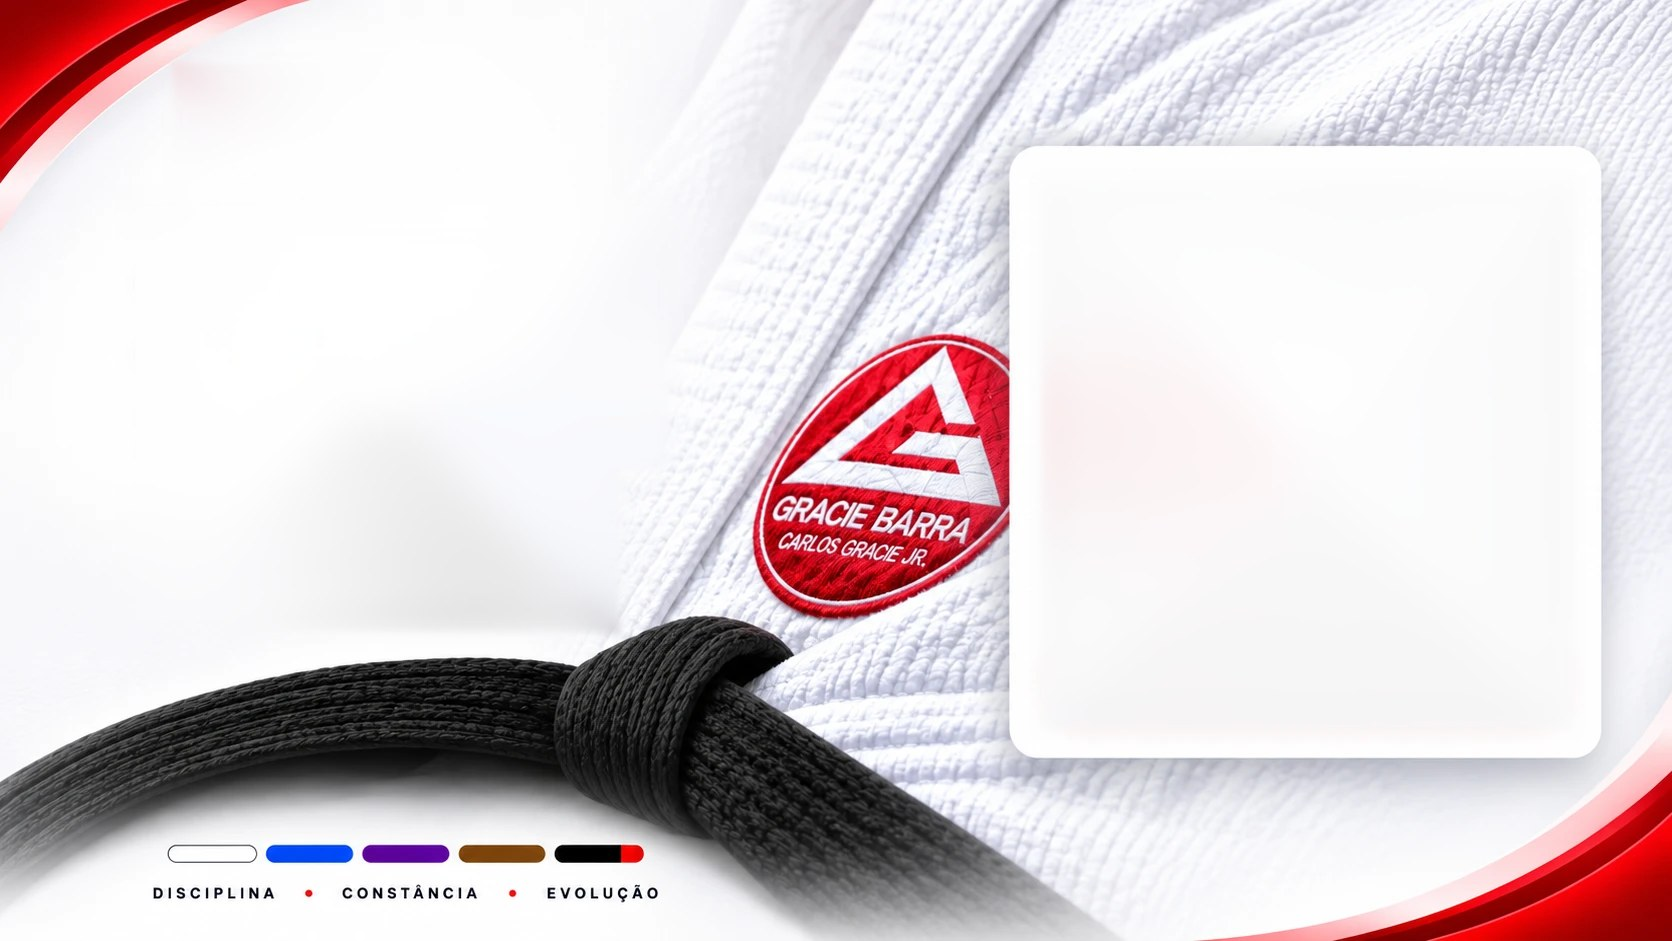
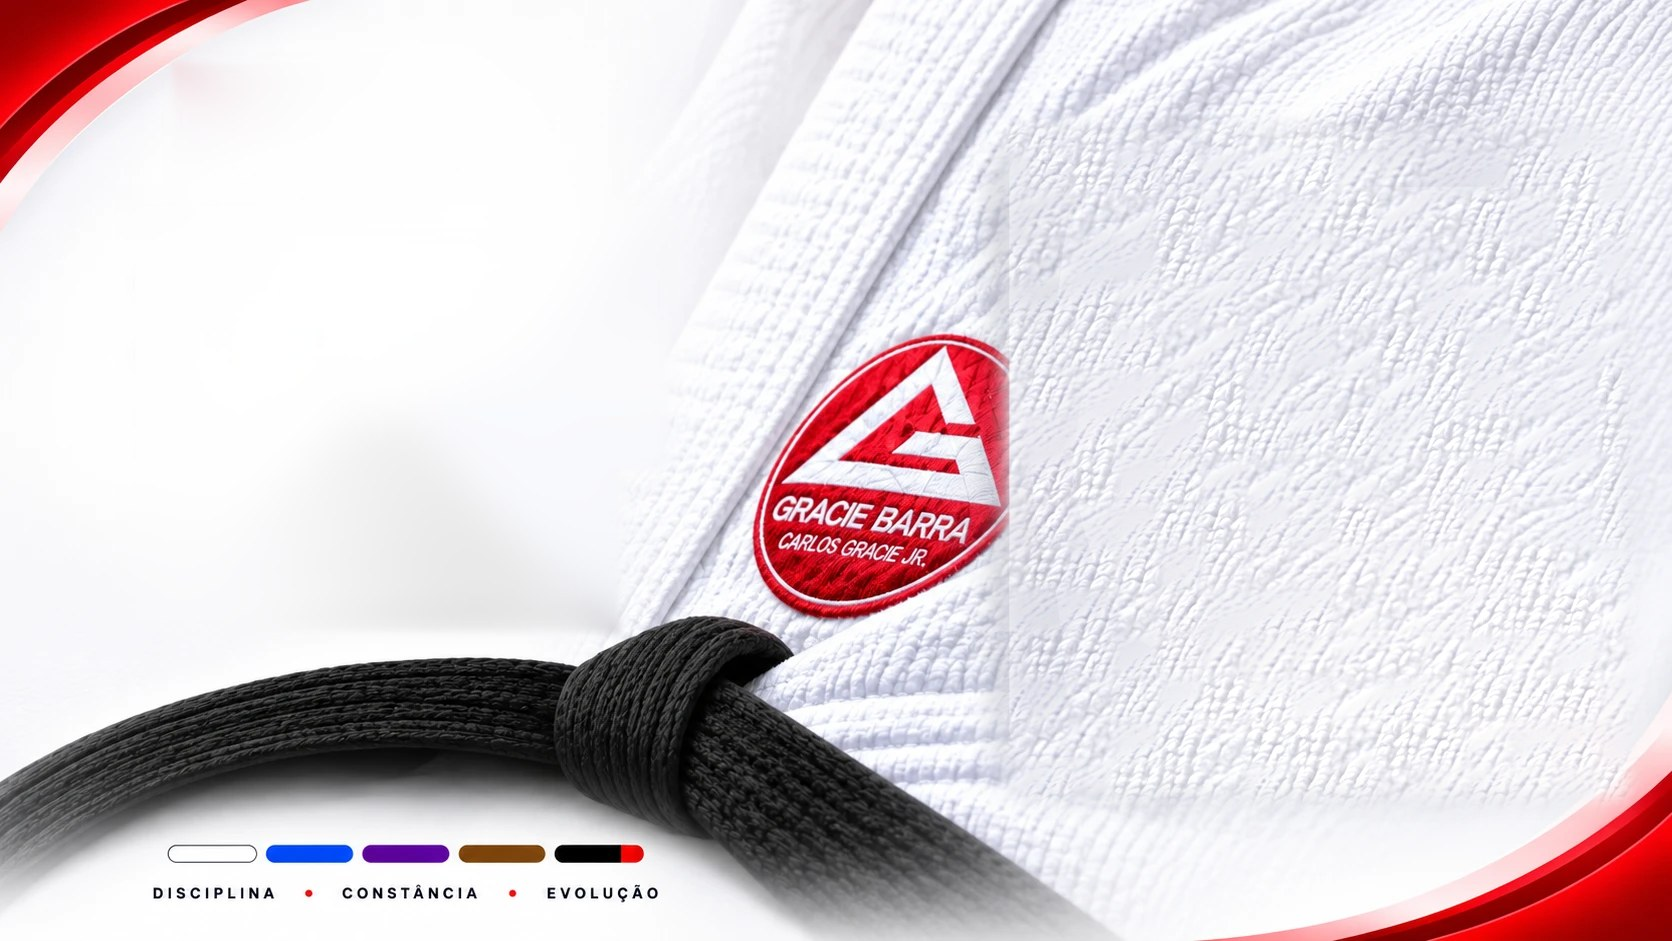
fix: cartão de login do computador menor
O fundo não tem mais o cartão pintado (o lugar dele virou tecido de kimono),
então o cartão de verdade passa a ter ~26% da largura em vez de 36%,
com campos e botão de 42–52px. A borda esquerda segue colada no patch.

Changed region(s): [[0.5909, 0.1233, 0.9641, 0.8629], [0.7775, 0.6472, 0.8086, 0.678]]

diff --git a/css/admin.css b/css/admin.css
@@ -764,23 +764,24 @@ a.stat:hover{border-color:var(--red-borda)}
   .lp-lado-itens li{display:flex;flex-direction:column;align-items:center;text-align:center;font-size:1.1cqw;font-weight:700;line-height:1.2;color:#22252c}
   .lp-lado-itens li>span{width:4.2cqw;height:4.2cqw;border-radius:1.1cqw;background:#fff;display:grid;place-items:center;box-shadow:0 .5cqw 1.4cqw #1b26301a;margin-bottom:.8cqw;color:#e0101b}
   .lp-lado-itens .ic{width:2.1cqw;height:2.1cqw;stroke-width:2.2}
-  /* O cartão cobre o cartão do desenho; o conteúdo ocupa a largura dele (como no desenho), em ~80% da escala, com teto em px */
-  .lp-conteudo{position:absolute;left:60.3%;top:15.45%;width:35.6%;min-height:36.7cqw;padding:2.6cqw 3.05cqw;background:#fff;border-radius:1.7cqw;box-shadow:0 1.4cqw 4cqw #1b263020;
-    display:flex;flex-direction:column;justify-content:center}
-  .lp-desk-cab{display:block;margin-bottom:clamp(20px,2cqw,32px)}
-  .lp-desk-cab .lp-lado-regua{width:clamp(44px,4.2cqw,72px);height:clamp(3px,.24cqw,4px)}
-  .lp-desk-cab h2{margin:clamp(10px,.9cqw,14px) 0 0;font-size:clamp(26px,2.4cqw,40px);font-weight:900;letter-spacing:-.045em;color:#0d0f14;line-height:1.1}
-  .lp-desk-cab p{margin:6px 0 0;color:#6b6f78;font-size:clamp(14px,1.1cqw,18px)}
-  .lp-form{gap:clamp(14px,1.3cqw,20px)}
-  .lp-grupo label{font-size:clamp(13px,.98cqw,16px);margin:0 0 8px 0;color:#0d0f14}
-  .lp-campo{height:clamp(46px,3.3cqw,56px);border-radius:14px;padding:0 16px;gap:12px;box-shadow:0 3px 10px #1b26300a}
-  .lp-campo>svg{width:20px;height:20px}
-  .lp-campo input{font-size:clamp(15px,1.05cqw,17px)}
-  .lp-olho svg{width:20px;height:20px}
-  .lp-esqueci{margin:-4px 0 4px}
-  .lp-esqueci button{font-size:clamp(13px,.95cqw,15px);font-weight:500}
-  .lp-entrar{height:clamp(48px,3.6cqw,60px);border-radius:14px;font-size:clamp(14px,1.15cqw,18px);letter-spacing:.03em;gap:12px;background:linear-gradient(100deg,#e3121d,#d10e18 60%,#b30a12)}
-  .lp-entrar svg{width:21px;height:21px}
+  /* Cartão menor que o do desenho (o fundo não tem mais o cartão pintado). A borda esquerda fica
+     colada no corte do patch (x≈60% do pôster) e a altura cobre o patch inteiro. */
+  .lp-conteudo{position:absolute;left:59.9%;top:50.2%;transform:translateY(-50%);width:26.5%;min-height:max(33%,300px);padding:clamp(26px,2.3cqw,40px) clamp(26px,2.4cqw,42px);
+    background:#fff;border-radius:clamp(18px,1.4cqw,24px);box-shadow:0 1.2cqw 3.4cqw #1b263024;display:flex;flex-direction:column;justify-content:center}
+  .lp-desk-cab{display:block;margin-bottom:clamp(16px,1.5cqw,24px)}
+  .lp-desk-cab .lp-lado-regua{width:clamp(36px,3cqw,52px);height:3px}
+  .lp-desk-cab h2{margin:clamp(8px,.7cqw,12px) 0 0;font-size:clamp(22px,1.75cqw,30px);font-weight:900;letter-spacing:-.04em;color:#0d0f14;line-height:1.1}
+  .lp-desk-cab p{margin:4px 0 0;color:#6b6f78;font-size:clamp(13px,.9cqw,15px)}
+  .lp-form{gap:clamp(12px,1cqw,16px)}
+  .lp-grupo label{font-size:clamp(12px,.82cqw,14px);margin:0 0 6px 0;color:#0d0f14}
+  .lp-campo{height:clamp(42px,2.75cqw,50px);border-radius:12px;padding:0 14px;gap:10px;box-shadow:0 3px 10px #1b26300a}
+  .lp-campo>svg{width:18px;height:18px}
+  .lp-campo input{font-size:clamp(14px,.95cqw,16px)}
+  .lp-olho svg{width:18px;height:18px}
+  .lp-esqueci{margin:-4px 0 2px}
+  .lp-esqueci button{font-size:clamp(12px,.82cqw,14px);font-weight:500}
+  .lp-entrar{height:clamp(44px,2.9cqw,52px);border-radius:12px;font-size:clamp(13px,.95cqw,16px);letter-spacing:.03em;gap:10px;background:linear-gradient(100deg,#e3121d,#d10e18 60%,#b30a12)}
+  .lp-entrar svg{width:19px;height:19px}
   .lp-aviso{font-size:12px;margin-top:10px}
 }
 /* Telas ultralargas: o pôster não cobre a largura toda; as bordas somem num degradê */
